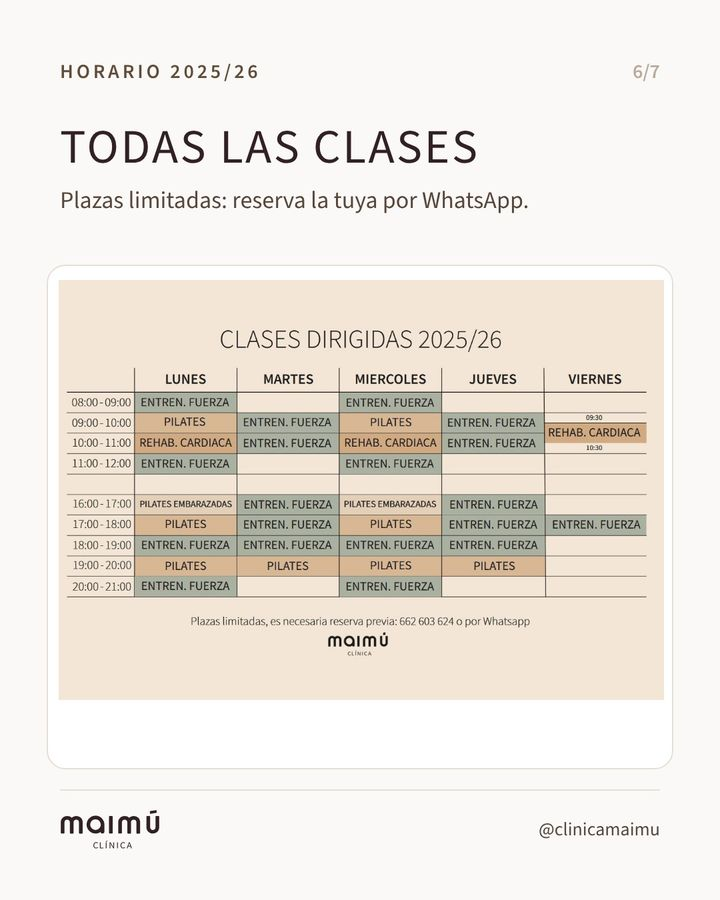
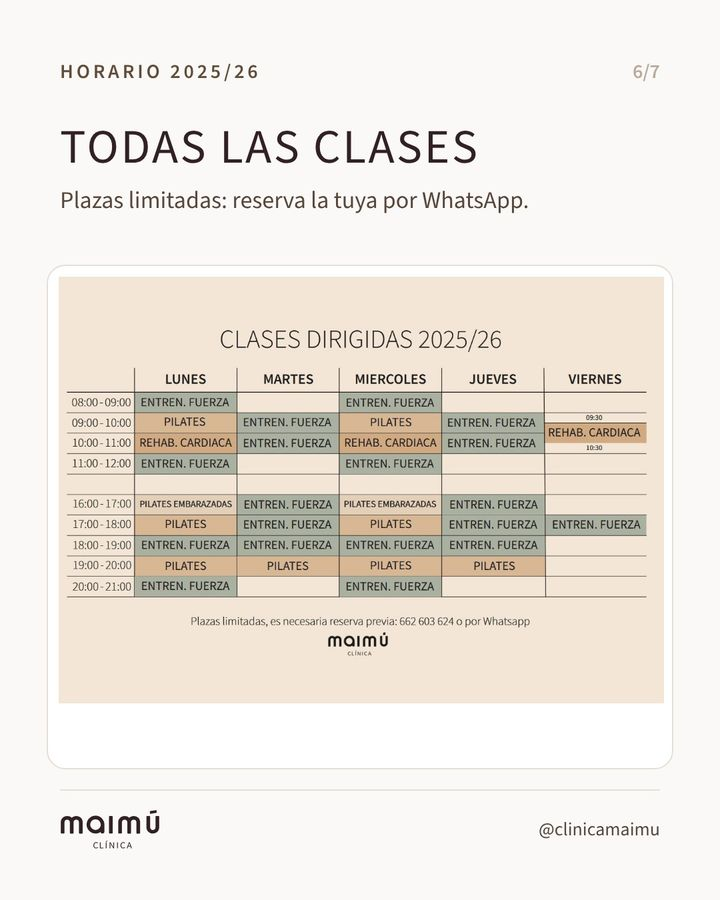
Maimú: kit de perfil de Instagram y meses regenerados
Claude-Session: https://claude.ai/code/session_01YYw77twQtDYTmL1iKtHKKB

Changed region(s): [[0.0917, 0.7778, 0.9167, 0.8089], [0.0917, 0.28, 0.9167, 0.3111]]

diff --git a/instagram/maimu-7q4k2/perfil/index.html b/instagram/maimu-7q4k2/perfil/index.html
@@ -1,0 +1,19 @@
+<!doctype html><html lang="es"><head><meta charset="utf-8"><meta name="viewport" content="width=device-width,initial-scale=1">
+<title>Perfil de Instagram · Clínica Maimú</title><meta name="robots" content="noindex,nofollow"><style>@font-face{font-family:S;font-weight:200 900;src:url(fuente.woff2) format("woff2")}
+*{box-sizing:border-box}body{margin:0;background:#fbf9f7;color:#312124;font:400 18px/1.55 S,system-ui,sans-serif}
+.wrap{max-width:860px;margin:0 auto;padding:28px 16px 40px}h1,h2{font-weight:400;text-transform:uppercase;letter-spacing:.05em;line-height:1.15}
+h1{font-size:30px;margin:14px 0 6px}h2{font-size:21px;margin:30px 0 10px}.eb{font-size:13px;letter-spacing:.16em;text-transform:uppercase;color:#574639;font-weight:600}
+.perfil{background:#fff;border:1px solid #e7ded6;border-radius:20px;padding:18px}.top{display:flex;gap:16px;align-items:center}
+.top img{width:86px;height:86px;border-radius:50%;border:1px solid #e7ded6}.bio{font-size:15px;margin-top:10px;line-height:1.45}.bio a{color:#00376b;font-weight:600;text-decoration:none}
+.dest{display:flex;gap:14px;overflow-x:auto;padding:14px 0 4px}.dest a{text-decoration:none;color:inherit;text-align:center;font-size:12.5px;flex:none;width:72px}
+.dest img{width:72px;height:72px;border-radius:50%;object-fit:cover;border:1px solid #e7ded6;padding:3px;background:#fff}
+.hs{display:flex;gap:10px;overflow-x:auto;padding:4px 0 10px}.hs img{flex:0 0 140px;width:140px;aspect-ratio:9/16;object-fit:cover;border-radius:12px;border:1px solid #e7ded6}
+.chip{display:inline-block;font-size:13px;font-weight:600;padding:3px 10px;border-radius:999px;background:#fff4e0;border:1px solid #f0dcae;margin-left:6px}
+.pasos li{margin-bottom:8px}code{background:#fff;border:1px solid #e7ded6;border-radius:6px;padding:1px 6px}
+</style></head><body><div class="wrap">
+<div class="eb">Instagram · @clinicamaimu</div><h1>Así quedaría vuestro perfil</h1>
+<p style="color:#574639;margin:0 0 16px">Foto, biografía, enlace e historias destacadas, con vuestra marca. Toca una destacada para ver lo que lleva dentro.</p>
+<div class="perfil"><div class="top"><img src="img/foto-perfil.jpg" alt=""><div><b>clinicamaimu</b><div style="font-size:14px;color:#574639">Fisioterapeuta</div></div></div>
+<div class="bio"><b>Clínica Maimú · Fisioterapia Salburua</b><br>Fisioterapia en Salburua, Vitoria-Gasteiz<br>Ecoguiada · Osteopatía · Rehab. cardíaca · Pilates<br>L-V 9-21 h<br>💬 Cita por WhatsApp 👇<br><a href="https://www.clinicamaimu.com">www.clinicamaimu.com</a></div>
+<div class="dest"><a href="#tratamientos"><img src="img/destacadas_1-tratamientos.jpg" alt="">Tratamientos</a><a href="#clases"><img src="img/destacadas_2-clases.jpg" alt="">Clases</a><a href="#horario"><img src="img/destacadas_3-horario.jpg" alt="">Horario</a><a href="#equipo"><img src="img/destacadas_4-equipo.jpg" alt="">Equipo</a><a href="#como-llegar"><img src="img/destacadas_5-como-llegar.jpg" alt="">Cómo llegar</a><a href="#cita"><img src="img/destacadas_6-cita.jpg" alt="">Cita</a></div></div><h2 id="tratamientos">Tratamientos <small style="font-size:15px;color:#574639">· 10 historias</small><span class="chip">🩺 Lo revisa Amagoia</span></h2><div class="hs"><img src="img/historias_1-tratamientos_01-fisioterapia-ecoguiada.jpg" alt="" loading="lazy"><img src="img/historias_1-tratamientos_02-terapia-manual.jpg" alt="" loading="lazy"><img src="img/historias_1-tratamientos_03-puncion-seca.jpg" alt="" loading="lazy"><img src="img/historias_1-tratamientos_04-indiba.jpg" alt="" loading="lazy"><img src="img/historias_1-tratamientos_05-ondas-de-choque-focales.jpg" alt="" loading="lazy"><img src="img/historias_1-tratamientos_06-fisioterapia-deportiva.jpg" alt="" loading="lazy"><img src="img/historias_1-tratamientos_07-dolor-orofacial-y-atm.jpg" alt="" loading="lazy"><img src="img/historias_1-tratamientos_08-osteopatia.jpg" alt="" loading="lazy"><img src="img/historias_1-tratamientos_09-campos-magneticos-superinductivos.jpg" alt="" loading="lazy"><img src="img/historias_1-tratamientos_10-rehabilitacion-cardiaca.jpg" alt="" loading="lazy"></div><h2 id="clases">Clases <small style="font-size:15px;color:#574639">· 6 historias</small><span class="chip">🩺 Lo revisa Amagoia</span></h2><div class="hs"><img src="img/historias_2-clases_01-pilates.jpg" alt="" loading="lazy"><img src="img/historias_2-clases_02-entrenamiento-de-fuerza.jpg" alt="" loading="lazy"><img src="img/historias_2-clases_03-clases-de-manana.jpg" alt="" loading="lazy"><img src="img/historias_2-clases_04-clases-de-tarde.jpg" alt="" loading="lazy"><img src="img/historias_2-clases_05-rehabilitacion-cardiaca-en-grupo.jpg" alt="" loading="lazy"><img src="img/historias_2-clases_06-reserva-tu-plaza.jpg" alt="" loading="lazy"></div><h2 id="horario">Horario <small style="font-size:15px;color:#574639">· 2 historias</small></h2><div class="hs"><img src="img/historias_3-horario_01-lunes-a-viernes-de-9-00-a-21-00.jpg" alt="" loading="lazy"><img src="img/historias_3-horario_02-horario-2025-26.jpg" alt="" loading="lazy"></div><h2 id="equipo">Equipo <small style="font-size:15px;color:#574639">· 2 historias</small></h2><div class="hs"><img src="img/historias_4-equipo_01-quien-te-cuida.jpg" alt="" loading="lazy"><img src="img/historias_4-equipo_02-al-frente-amagoia.jpg" alt="" loading="lazy"></div><h2 id="como-llegar">Cómo llegar <small style="font-size:15px;color:#574639">· 2 historias</small></h2><div class="hs"><img src="img/historias_5-como-llegar_01-estamos-en-salburua.jpg" alt="" loading="lazy"><img src="img/historias_5-como-llegar_02-esta-es-nuestra-puerta.jpg" alt="" loading="lazy"></div><h2 id="cita">Cita <small style="font-size:15px;color:#574639">· 1 historias</small></h2><div class="hs"><img src="img/historias_6-cita_01-escribenos-por-whatsapp.jpg" alt="" loading="lazy"></div>
+<p style="color:#574639;font-size:14px;margin-top:30px">Preparado por Ioritz Martínez · Fotos y textos de Clínica Maimú</p></div></body></html>
